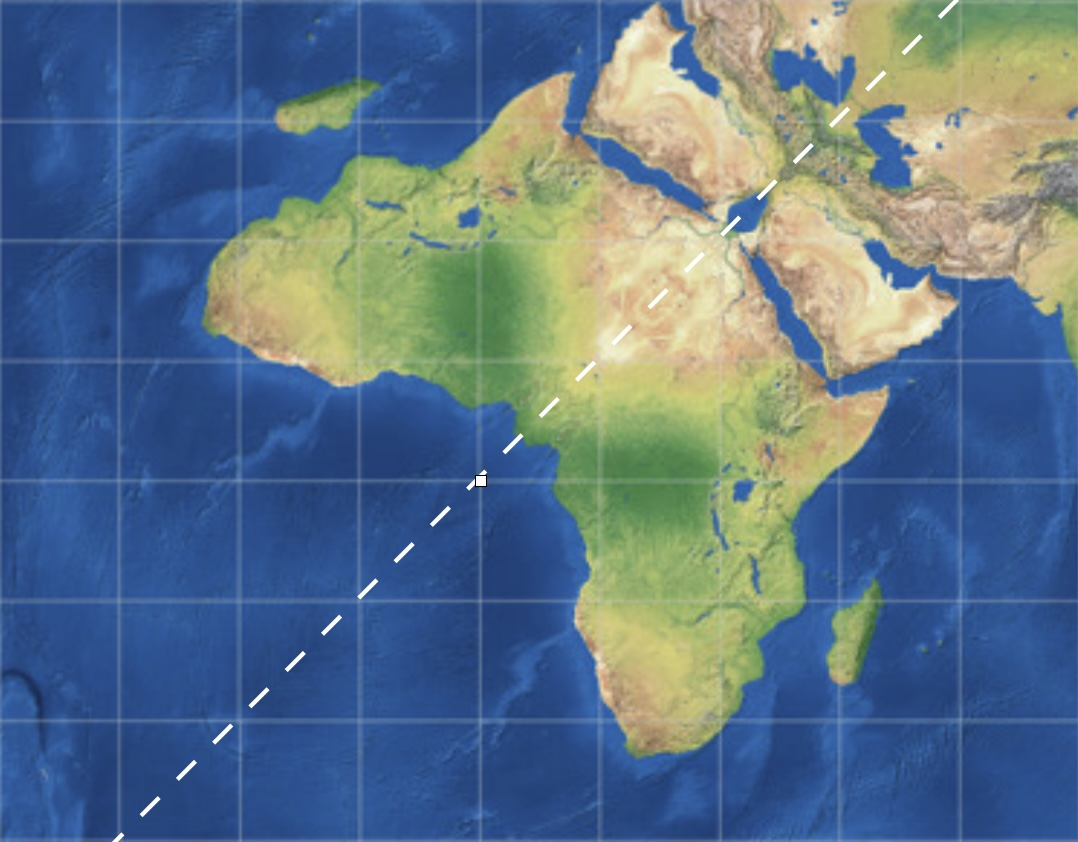
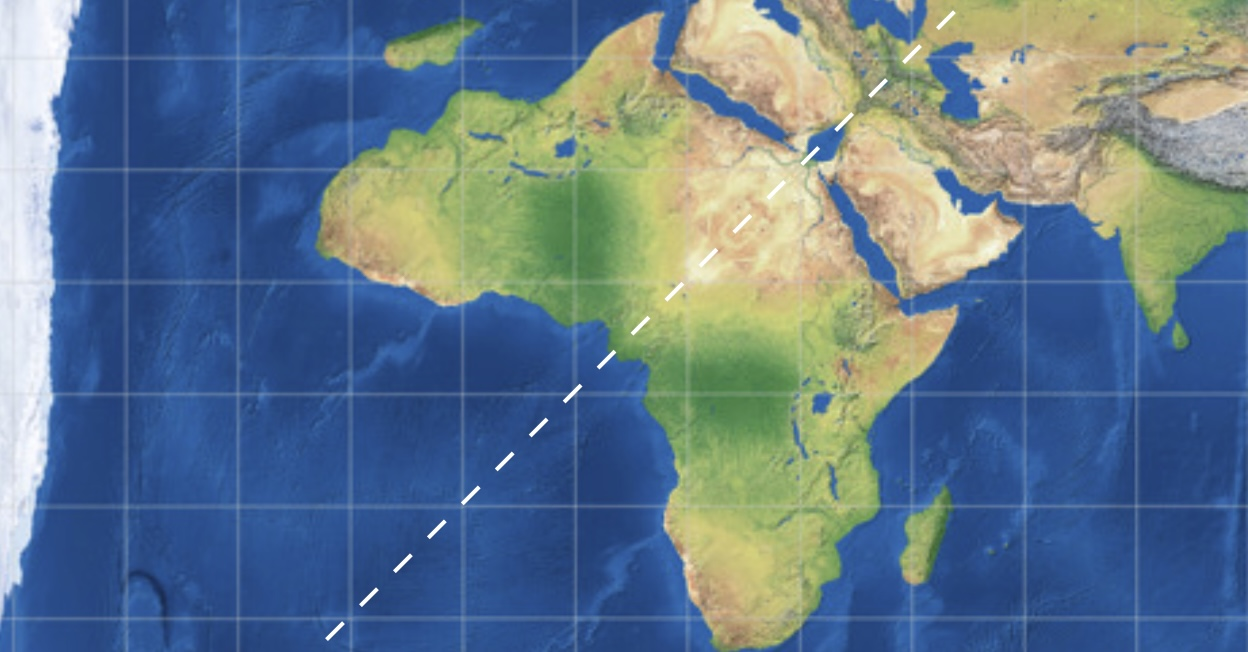
optimiz

diff --git a/_posts/2026-04-27-ltu-uae.md b/_posts/2026-04-27-ltu-uae.md
@@ -24,10 +24,7 @@ Net moksleivis pasakys: tai tipiškos taško, esančio kažkur Lietuvoje, koordi
 
 ![Lietuva ant gaublio su ilgumų ir platumų linijom (dienovidiniai ir paralelės)](/assets/img/ltuuae/lt-ilgumos-platumos.png)
 
-Tas pirmasis elementas – tai platuma. Antrasis – ilguma. Tačiau programavimo kalbose retai tenka nurodyti kas–yra–kas pažodžiui:
-
-{"latitude": "54.6873", "longitude: "25.2878"}
-Daug dažniau nurodomi tiesiog du skaičiai. Ir jeigu tu juos supainiosi, o supainioti tikrai yra pasitaikę visiems, atsidursi visai ne ten. Kartais dykumoj, kartais, jūroj, o kartais…
+Tas pirmasis elementas – tai platuma. Antrasis – ilguma. Tačiau programavimo kalbose retai tenka nurodyti kas–yra–kas pažodžiui, pvz., `{"latitude": "54.6873", "longitude: "25.2878"}`. Daug dažniau nurodomi tiesiog du skaičiai. Ir jeigu tu juos supainiosi, o supainioti tikrai yra pasitaikę visiems, atsidursi visai ne ten. Kartais dykumoj, kartais, jūroj, o kartais…
 
 Bet pirmiau – ką reiškia “supainioti koordinates“? Štai čia turime žemėlapį (cilindrinė Plate carrée projekcija):
 
@@ -65,6 +62,6 @@ Nors Vilniui gal ir ne taip pasisekė (jis Persijos įlankoje), bet Aukštadvari
 
 Sukūrėm jums ir interaktyvų žemėlapį koordinatėms vartyti. Čia galėsite pažiūrėti, kos JAE miestas yra jūsų močiutės kaimo sodybos dvynys!
 
-<https://duomenu-reikalai.github.io/dual-map>
+<https://duomenureikalai.lt/dual-map>
 
 

diff --git a/_posts/2025-06-24-sovietizmo-pedsakas.md b/_posts/2025-06-24-sovietizmo-pedsakas.md
@@ -8,7 +8,7 @@ pin: false
 math: false
 mermaid: false
 image:
-  path: /assets/img/sovietizmas/thumbnail.png
+  path: /assets/img/sovietizmas/thumbnail.jpg
   alt: ""
   no_bg: true
 ---
@@ -17,7 +17,7 @@ image:
 Praleidome valandų valandas ieškodami keistai pavadintų Lietuvos gatvių ir jas sistemindami. Svetainė [kalbagatves.lt](https://kalbagatves.lt/) yra šio darbo rezultatas. Kviečiame naršyti ir spręsti – ar daug turime sovietinių laikų palikimo.
 
 
-![kalbagatvės ekrano vaizdas](/assets/img/sovietizmas/img1.png)
+![kalbagatvės - ekrano vaizdas](/assets/img/sovietizmas/img1.png)
 
 ## Žemai kabantys vaisiai
 “Žemai kabantys vaisiai“ po Nepriklausomybės atgavimo buvo kaip mat lengvai nuraškyti: neliko nei *Lenino prospekto*, nei *Komjaunimo gatvės*, nei *Dzeržinskio*, *Suvorovo*, *Kapsuko* ar panašių kitų.

diff --git a/_posts/2025-05-17-mazeikiai.md b/_posts/2025-05-17-mazeikiai.md
@@ -1,5 +1,5 @@
 ---
-title: Ar Mažeikių vaikai yra narkomanai?
+title: Mažeikių vaikai narkomanai?
 description: Antroji priešiško drono skrydžio per Lietuvą analizės dalis – apie garso įrašų iš vaizdo kamerų panaudojimą trajektorijos tikslinimui.
 author: Statoras Datoras
 date: 2025-05-17 22:33:00 +0300